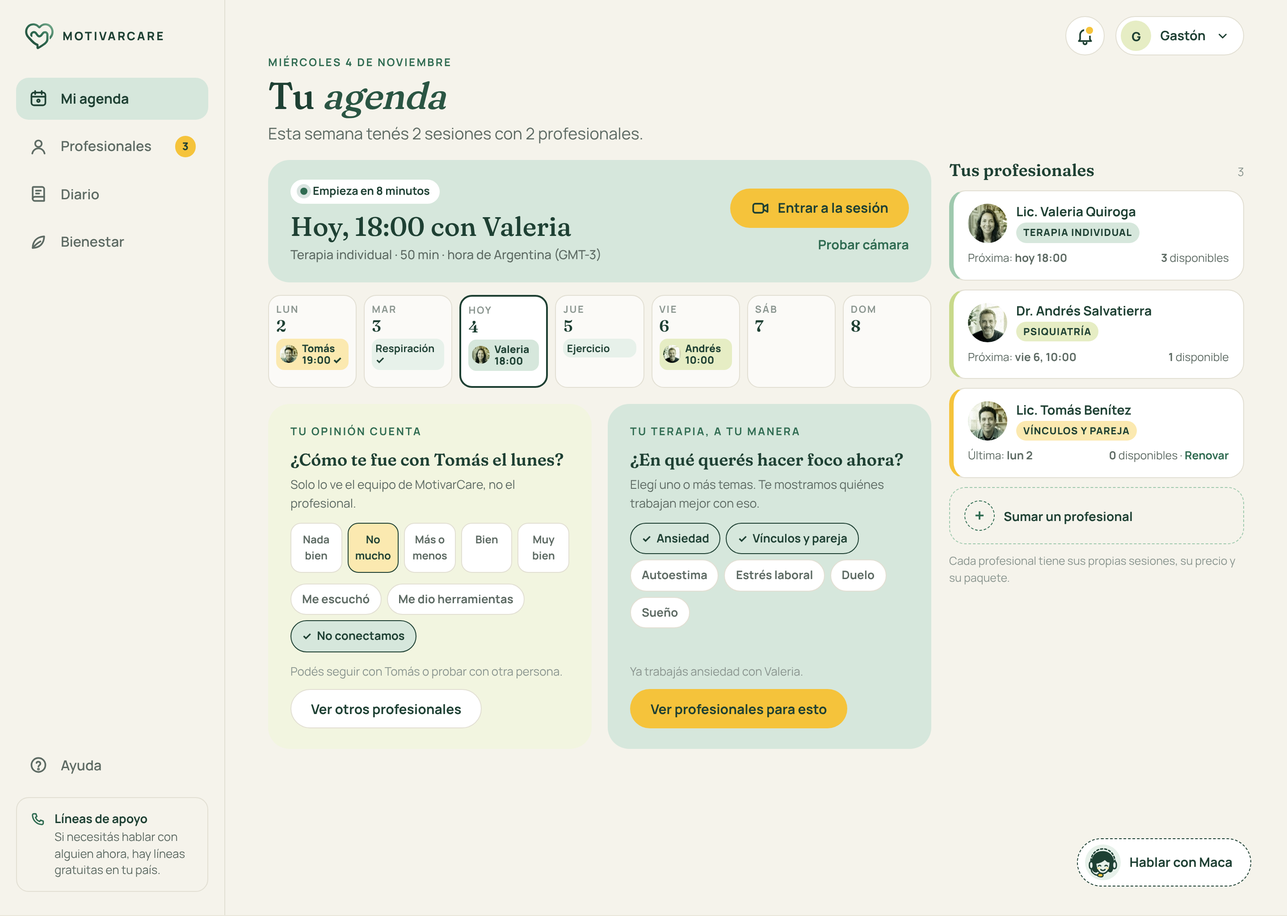
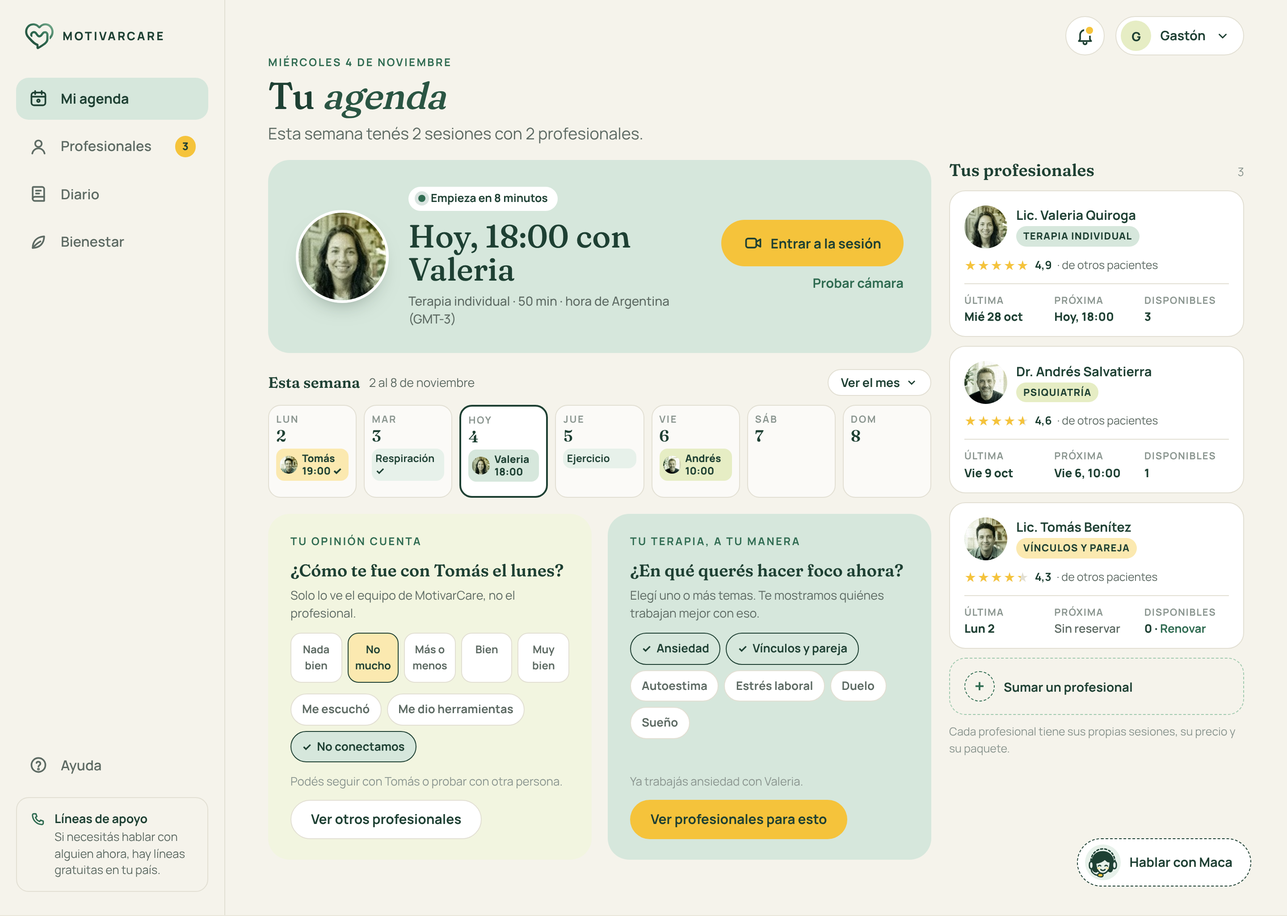
App del usuario: ajustes al Inicio de la familia 3
Sesión de hoy más grande y con foto, semana que se abre en el mes completo
y tarjetas de profesionales sin borde de color, con valoración, última y
próxima sesión y sesiones disponibles.

Claude-Session: https://claude.ai/code/session_01WU1DRv73FL9hgnWuzdh2zM

diff --git a/web/public/app-usuario/equipo.html b/web/public/app-usuario/equipo.html
@@ -321,10 +321,42 @@ ul.lista-simple { padding: 0; }
 /* ===== Familia 3 · Equipo de apoyo y múltiples profesionales ===== */
 .eq-grid { display: grid; grid-template-columns: 1fr 330px; gap: 20px; }
 .eq-cab { display: flex; align-items: flex-end; justify-content: space-between; margin-bottom: 16px; }
-.eq-hoy { display: grid; grid-template-columns: 1fr auto; gap: 16px; align-items: center; padding: 20px 24px; }
-.eq-hoy .cuando { font: 500 30px/1.05 var(--serif); font-variation-settings: 'SOFT' 60; color: var(--bosque); }
+.eq-hoy { display: grid; grid-template-columns: 104px 1fr auto; gap: 22px; align-items: center; padding: 28px 30px; }
+.eq-hoy .foto { width: 104px; height: 104px; border-radius: 50%; object-fit: cover; border: 3px solid var(--superficie); box-shadow: 0 12px 26px -16px rgba(20,41,31,.55); display: block; }
+.eq-hoy .cuando { font: 500 36px/1.05 var(--serif); font-variation-settings: 'SOFT' 60; color: var(--bosque); }
 .eq-hoy .cuando small { display: block; font: 500 14px/1.4 var(--sans); color: var(--tinta-suave); margin-top: 6px; }
-.eq-semana { display: grid; grid-template-columns: repeat(7, 1fr); gap: 8px; margin-top: 14px; }
+.eq-semana { display: grid; grid-template-columns: repeat(7, 1fr); gap: 8px; }
+.eq-cal { margin-top: 18px; }
+.eq-cal-cab { display: flex; align-items: center; gap: 10px; margin-bottom: 10px; }
+.eq-cal-cab .eq-titulo { font-size: 17px; }
+.eq-cal-cab .rango { font-size: 13.5px; color: var(--tinta-suave); }
+.eq-cal-cab .flechas { display: none; gap: 6px; }
+.eq-cal-cab .flechas span { width: 30px; height: 30px; border-radius: 50%; border: 1px solid var(--linea); background: var(--superficie); display: grid; place-items: center; color: var(--bosque); font-weight: 800; }
+.eq-expandir { margin-left: auto; display: inline-flex; align-items: center; gap: 6px; padding: 7px 14px; border-radius: 99px; border: 1.5px solid var(--linea); background: var(--superficie); font: 700 13.5px/1 var(--sans); color: var(--bosque); cursor: pointer; }
+.eq-expandir svg { width: 14px; height: 14px; fill: none; stroke: currentColor; stroke-width: 2.4; transition: transform .2s; }
+.eq-cal .solo-mes { display: none; }
+.eq-cal.abierto .solo-semana { display: none; }
+.eq-cal.abierto .solo-mes { display: initial; }
+.eq-cal.abierto .eq-cal-cab .flechas { display: inline-flex; }
+.eq-cal.abierto .eq-expandir svg { transform: rotate(180deg); }
+.eq-mes { display: none; }
+.eq-cal.abierto .eq-semana { display: none; }
+.eq-cal.abierto .eq-mes { display: block; }
+.eq-mes .dias { display: grid; grid-template-columns: repeat(7, 1fr); gap: 6px; margin-bottom: 6px; font: 700 11px/1 var(--sans); letter-spacing: .12em; text-transform: uppercase; color: var(--tinta-tenue); padding-left: 8px; }
+.eq-mes .grilla { display: grid; grid-template-columns: repeat(7, 1fr); gap: 6px; }
+.eq-mes .c { min-height: 74px; border-radius: 12px; background: rgba(255,255,255,.6); border: 1px solid var(--linea); padding: 6px 6px 7px; display: flex; flex-direction: column; gap: 3px; }
+.eq-mes .c .n { font: 600 14px/1 var(--serif); color: var(--bosque); margin: 1px 0 2px 2px; }
+.eq-mes .c.fuera { background: transparent; border-style: dashed; opacity: .55; }
+.eq-mes .c.pasado { background: rgba(255,255,255,.35); }
+.eq-mes .c.hoy { background: var(--superficie); border: 2px solid var(--bosque); }
+.eq-mes .c.semana { box-shadow: inset 0 0 0 1px var(--salvia-fuerte); }
+.eq-mes .e { display: flex; align-items: center; gap: 4px; padding: 2px 5px 2px 2px; border-radius: 7px; font-size: 11px; font-weight: 800; color: var(--bosque); line-height: 1.2; white-space: nowrap; overflow: hidden; }
+.eq-mes .e img { width: 16px; height: 16px; border-radius: 50%; object-fit: cover; flex: none; }
+.eq-mes .e.v { background: var(--salvia); } .eq-mes .e.a { background: var(--lima); } .eq-mes .e.t { background: var(--amarillo-suave); }
+.eq-mes .e.otro { background: var(--menta); font-weight: 700; padding-left: 6px; }
+.eq-mes .e.libre { background: transparent; border: 1.5px dashed var(--salvia-fuerte); font-weight: 700; color: var(--verde-medio); padding-left: 6px; }
+.eq-mes .ley { display: flex; gap: 16px; flex-wrap: wrap; margin-top: 10px; font-size: 12.5px; color: var(--tinta-suave); }
+.eq-mes .ley b { color: var(--bosque); }
 .eq-dia { border-radius: 14px; background: rgba(255,255,255,.6); border: 1px solid var(--linea); padding: 9px 8px 10px; min-height: 104px; display: flex; flex-direction: column; gap: 5px; }
 .eq-dia .d { font: 700 11px/1 var(--sans); letter-spacing: .12em; text-transform: uppercase; color: var(--tinta-tenue); }
 .eq-dia .n { font: 600 18px/1 var(--serif); color: var(--bosque); }
@@ -352,7 +384,18 @@ ul.lista-simple { padding: 0; }
 .eq-pro .serv { display: inline-block; font-size: 11px; font-weight: 800; letter-spacing: .06em; text-transform: uppercase; padding: 3px 8px; border-radius: 99px; color: var(--bosque); }
 .eq-pro .datos { display: flex; justify-content: space-between; font-size: 12.5px; color: var(--tinta-suave); }
 .eq-pro .datos b { display: inline; font-size: 12.5px; }
-.eq-pro.marca-v { border-left: 5px solid var(--salvia-fuerte); } .eq-pro.marca-a { border-left: 5px solid var(--lima-fuerte); } .eq-pro.marca-t { border-left: 5px solid var(--amarillo); }
+.eq-pro { padding: 16px 16px 14px; gap: 10px; }
+.eq-pro .avatar { width: 48px; height: 48px; }
+.eq-pro .valor { display: flex; align-items: center; gap: 6px; font-size: 12.5px; color: var(--tinta-suave); }
+.eq-pro .valor b { display: inline; font-size: 12.5px; color: var(--bosque); }
+.estrellas { position: relative; display: inline-block; font-size: 13px; line-height: 1; letter-spacing: 1px; }
+.estrellas i { font-style: normal; display: block; }
+.estrellas i:first-child { color: var(--linea); }
+.estrellas i:last-child { position: absolute; inset: 0 auto 0 0; width: var(--v); overflow: hidden; color: var(--amarillo); }
+.eq-pro .tres { display: grid; grid-template-columns: 1fr 1fr 1fr; gap: 6px; padding-top: 10px; border-top: 1px solid var(--linea); }
+.eq-pro .tres span { display: flex; flex-direction: column; gap: 2px; font-size: 11px; font-weight: 700; letter-spacing: .08em; text-transform: uppercase; color: var(--tinta-tenue); }
+.eq-pro .tres b { display: block; font-size: 13px; letter-spacing: 0; text-transform: none; color: var(--bosque); line-height: 1.25; }
+.eq-pro .tres b.nada { color: var(--tinta-suave); font-weight: 600; }
 .eq-sumar { border: 1.5px dashed var(--salvia-fuerte); border-radius: 18px; padding: 14px 16px; display: flex; align-items: center; gap: 10px; font-weight: 700; font-size: 14px; color: var(--bosque); }
 .eq-sumar i { width: 34px; height: 34px; border-radius: 50%; border: 1.5px dashed var(--verde-medio); display: grid; place-items: center; font-style: normal; font-size: 20px; color: var(--verde-medio); }
 .ini { display: grid; place-items: center; background: var(--lima); color: var(--bosque); font-weight: 800; font-size: 13px; border-radius: 50%; flex: none; }
@@ -376,7 +419,7 @@ ul.lista-simple { padding: 0; }
 .eq-avs { display: flex; gap: 10px; align-items: center; }
 .eq-avs .av { position: relative; }
 .eq-avs .av img, .eq-avs .av .ini { width: 44px; height: 44px; border-radius: 50%; object-fit: cover; border: 2.5px solid var(--superficie); box-shadow: 0 0 0 2px var(--salvia-fuerte); }
-.eq-avs .av.a img { box-shadow: 0 0 0 2px var(--lima-fuerte); } .eq-avs .av.t img { box-shadow: 0 0 0 2px var(--amarillo); }
+
 .eq-avs .mas { width: 44px; height: 44px; border-radius: 50%; border: 1.5px dashed var(--verde-medio); display: grid; place-items: center; color: var(--verde-medio); font-size: 20px; }
 .eq-lista-tel { display: flex; flex-direction: column; gap: 8px; }
 .eq-item-tel { display: flex; align-items: center; gap: 10px; padding: 10px 12px; border-radius: 14px; background: var(--superficie); border: 1px solid var(--linea); font-size: 13px; color: var(--tinta-suave); }
@@ -434,10 +477,11 @@ ul.lista-simple { padding: 0; }
       <div class="eq-grid">
         <div>
           <article class="tarjeta salvia eq-hoy">
+            <img class="foto" src="../landing/img/profesionales/valeria-quiroga.jpg" alt="Lic. Valeria Quiroga" width="104" height="104">
             <div><span class="chip" style="background:var(--superficie)"><span class="late"></span>Empieza en 8 minutos</span><div class="cuando" style="margin-top:10px">Hoy, 18:00 con Valeria<small>Terapia individual · 50 min · hora de Argentina (GMT-3)</small></div></div>
-            <div style="display:flex;flex-direction:column;gap:8px;align-items:flex-end"><a class="boton primario"><svg class="ico"><use href="#i-video"/></svg>Entrar a la sesión</a><a class="enlace">Probar cámara</a></div>
+            <div style="display:flex;flex-direction:column;gap:8px;align-items:flex-end"><a class="boton primario" style="height:52px;padding:0 24px"><svg class="ico"><use href="#i-video"/></svg>Entrar a la sesión</a><a class="enlace">Probar cámara</a></div>
           </article>
-          <div class="eq-semana"><div class="eq-dia"><span class="d">Lun</span><span class="n">2</span><span class="eq-ev t"><img src="../landing/img/profesionales/tomas-benitez.jpg" alt="">Tomás 19:00 ✓</span></div><div class="eq-dia"><span class="d">Mar</span><span class="n">3</span><span class="eq-ev otro">Respiración ✓</span></div><div class="eq-dia hoy"><span class="d">Hoy</span><span class="n">4</span><span class="eq-ev v"><img src="../landing/img/profesionales/valeria-quiroga.jpg" alt="">Valeria 18:00</span></div><div class="eq-dia"><span class="d">Jue</span><span class="n">5</span><span class="eq-ev otro">Ejercicio</span></div><div class="eq-dia"><span class="d">Vie</span><span class="n">6</span><span class="eq-ev a"><img src="../landing/img/profesionales/andres-salvatierra.jpg" alt="">Andrés 10:00</span></div><div class="eq-dia"><span class="d">Sáb</span><span class="n">7</span></div><div class="eq-dia"><span class="d">Dom</span><span class="n">8</span></div></div>
+          <div class="eq-cal"><div class="eq-cal-cab"><h2 class="eq-titulo"><span class="solo-semana">Esta semana</span><span class="solo-mes">Noviembre 2026</span></h2><span class="rango solo-semana">2 al 8 de noviembre</span><span class="flechas"><span>‹</span><span>›</span></span><button class="eq-expandir" type="button" onclick="this.closest('.eq-cal').classList.toggle('abierto')"><span class="solo-semana">Ver el mes</span><span class="solo-mes">Ver solo la semana</span><svg viewBox="0 0 24 24"><path d="M6 9l6 6 6-6"/></svg></button></div><div class="eq-semana"><div class="eq-dia"><span class="d">Lun</span><span class="n">2</span><span class="eq-ev t"><img src="../landing/img/profesionales/tomas-benitez.jpg" alt="">Tomás 19:00 ✓</span></div><div class="eq-dia"><span class="d">Mar</span><span class="n">3</span><span class="eq-ev otro">Respiración ✓</span></div><div class="eq-dia hoy"><span class="d">Hoy</span><span class="n">4</span><span class="eq-ev v"><img src="../landing/img/profesionales/valeria-quiroga.jpg" alt="">Valeria 18:00</span></div><div class="eq-dia"><span class="d">Jue</span><span class="n">5</span><span class="eq-ev otro">Ejercicio</span></div><div class="eq-dia"><span class="d">Vie</span><span class="n">6</span><span class="eq-ev a"><img src="../landing/img/profesionales/andres-salvatierra.jpg" alt="">Andrés 10:00</span></div><div class="eq-dia"><span class="d">Sáb</span><span class="n">7</span></div><div class="eq-dia"><span class="d">Dom</span><span class="n">8</span></div></div><div class="eq-mes"><div class="dias"><span>Lun</span><span>Mar</span><span>Mié</span><span>Jue</span><span>Vie</span><span>Sáb</span><span>Dom</span></div><div class="grilla"><div class="c fuera"><span class="n">26</span><span class="e t"><img src="../landing/img/profesionales/tomas-benitez.jpg" alt="">19:00 ✓</span></div><div class="c fuera"><span class="n">27</span></div><div class="c fuera"><span class="n">28</span><span class="e v"><img src="../landing/img/profesionales/valeria-quiroga.jpg" alt="">18:00 ✓</span></div><div class="c fuera"><span class="n">29</span></div><div class="c fuera"><span class="n">30</span></div><div class="c fuera"><span class="n">31</span></div><div class="c pasado"><span class="n">1</span><span class="e otro">Respiración ✓</span></div><div class="c pasado semana"><span class="n">2</span><span class="e t"><img src="../landing/img/profesionales/tomas-benitez.jpg" alt="">19:00 ✓</span></div><div class="c pasado semana"><span class="n">3</span><span class="e otro">Respiración ✓</span></div><div class="c hoy"><span class="n">4</span><span class="e v"><img src="../landing/img/profesionales/valeria-quiroga.jpg" alt="">18:00</span></div><div class="c semana"><span class="n">5</span><span class="e otro">Ejercicio</span></div><div class="c semana"><span class="n">6</span><span class="e a"><img src="../landing/img/profesionales/andres-salvatierra.jpg" alt="">10:00</span></div><div class="c semana"><span class="n">7</span></div><div class="c semana"><span class="n">8</span></div><div class="c"><span class="n">9</span></div><div class="c"><span class="n">10</span><span class="e otro">Ejercicio</span></div><div class="c"><span class="n">11</span><span class="e v"><img src="../landing/img/profesionales/valeria-quiroga.jpg" alt="">18:00</span></div><div class="c"><span class="n">12</span></div><div class="c"><span class="n">13</span><span class="e otro">Respiración</span></div><div class="c"><span class="n">14</span></div><div class="c"><span class="n">15</span></div><div class="c"><span class="n">16</span></div><div class="c"><span class="n">17</span></div><div class="c"><span class="n">18</span><span class="e v"><img src="../landing/img/profesionales/valeria-quiroga.jpg" alt="">18:00</span></div><div class="c"><span class="n">19</span><span class="e otro">Ejercicio</span></div><div class="c"><span class="n">20</span></div><div class="c"><span class="n">21</span></div><div class="c"><span class="n">22</span></div><div class="c"><span class="n">23</span></div><div class="c"><span class="n">24</span></div><div class="c"><span class="n">25</span><span class="e libre">+ Reservar</span></div><div class="c"><span class="n">26</span></div><div class="c"><span class="n">27</span><span class="e otro">Respiración</span></div><div class="c"><span class="n">28</span></div><div class="c"><span class="n">29</span></div><div class="c"><span class="n">30</span></div><div class="c fuera"><span class="n">1</span></div><div class="c fuera"><span class="n">2</span></div><div class="c fuera"><span class="n">3</span></div><div class="c fuera"><span class="n">4</span><span class="e a"><img src="../landing/img/profesionales/andres-salvatierra.jpg" alt="">10:00</span></div><div class="c fuera"><span class="n">5</span></div><div class="c fuera"><span class="n">6</span></div></div><div class="ley"><span><b>3</b> sesiones con Valeria</span><span><b>1</b> con Andrés</span><span><b>7</b> ejercicios y prácticas</span><span>Tomás: sin sesiones reservadas · <a class="enlace" style="font-size:12.5px">Reservar</a></span></div></div></div>
           <div class="eq-prota"><article class="tarjeta eq-card" style="background:var(--lima-suave);border-color:transparent">
   <span class="t-fecha">Tu opinión cuenta</span>
   <h3 class="eq-titulo">¿Cómo te fue con Tomás el lunes?</h3>
@@ -455,9 +499,62 @@ ul.lista-simple { padding: 0; }
         </div>
         <div class="eq-lado">
   <div style="display:flex;justify-content:space-between;align-items:baseline"><h2 class="eq-titulo">Tus profesionales</h2><span class="tenue">3</span></div>
-  <article class="tarjeta eq-pro marca-v"><div class="fila"><img class="avatar" src="../landing/img/profesionales/valeria-quiroga.jpg" width="44" height="44" alt=""><div><b>Lic. Valeria Quiroga</b><span class="serv" style="background:var(--salvia)">Terapia individual</span></div></div><div class="datos"><span>Próxima: <b>hoy 18:00</b></span><span><b>3</b> disponibles</span></div></article>
-  <article class="tarjeta eq-pro marca-a"><div class="fila"><img class="avatar" src="../landing/img/profesionales/andres-salvatierra.jpg" width="44" height="44" alt=""><div><b>Dr. Andrés Salvatierra</b><span class="serv" style="background:var(--lima)">Psiquiatría</span></div></div><div class="datos"><span>Próxima: <b>vie 6, 10:00</b></span><span><b>1</b> disponible</span></div></article>
-  <article class="tarjeta eq-pro marca-t"><div class="fila"><img class="avatar" src="../landing/img/profesionales/tomas-benitez.jpg" width="44" height="44" alt=""><div><b>Lic. Tomás Benítez</b><span class="serv" style="background:var(--amarillo-suave)">Vínculos y pareja</span></div></div><div class="datos"><span>Última: <b>lun 2</b></span><span><b>0</b> disponibles · <a class="enlace" style="font-size:12.5px">Renovar</a></span></div></article>
+  <article class="tarjeta eq-pro"><div class="fila"><img class="avatar" src="../landing/img/profesionales/valeria-quiroga.jpg" width="48" height="48" alt=""><div><b>Lic. Valeria Quiroga</b><span class="serv" style="background:var(--salvia)">Terapia individual</span></div></div><div class="valor"><span class="estrellas" style="--v: 98%"><i>★★★★★</i><i>★★★★★</i></span><b>4,9</b><span>· de otros pacientes</span></div><div class="tres"><span>Última<b>Mié 28 oct</b></span><span>Próxima<b>Hoy, 18:00</b></span><span>Disponibles<b>3</b></span></div></article>
+  <article class="tarjeta eq-pro"><div class="fila"><img class="avatar" src="../landing/img/profesionales/andres-salvatierra.jpg" width="48" height="48" alt=""><div><b>Dr. Andrés Salvatierra</b><span class="serv" style="background:var(--lima)">Psiquiatría</span></div></div><div class="valor"><span class="estrellas" style="--v: 92%"><i>★★★★★</i><i>★★★★★</i></span><b>4,6</b><span>· de otros pacientes</span></div><div class="tres"><span>Última<b>Vie 9 oct</b></span><span>Próxima<b>Vie 6, 10:00</b></span><span>Disponibles<b>1</b></span></div></article>
+  <article class="tarjeta eq-pro"><div class="fila"><img class="avatar" src="../landing/img/profesionales/tomas-benitez.jpg" width="48" height="48" alt=""><div><b>Lic. Tomás Benítez</b><span class="serv" style="background:var(--amarillo-suave)">Vínculos y pareja</span></div></div><div class="valor"><span class="estrellas" style="--v: 86%"><i>★★★★★</i><i>★★★★★</i></span><b>4,3</b><span>· de otros pacientes</span></div><div class="tres"><span>Última<b>Lun 2</b></span><span>Próxima<b class="nada">Sin reservar</b></span><span>Disponibles<b>0 · <a class="enlace" style="font-size:13px">Renovar</a></b></span></div></article>
+  <div class="eq-sumar"><i>+</i>Sumar un profesional</div>
+  <span class="tenue" style="font-size:12.5px">Cada profesional tiene sus propias sesiones, su precio y su paquete.</span>
+</div>
+      </div>
+    </div>
+  </main>
+  <span class="maca"><img src="../landing/img/maca.svg" alt="">Hablar con Maca</span>
+  
+</div></section>
+<section class="lamina"><h2>Familia 3 · Inicio en escritorio · la semana abierta en el mes completo</h2><div class="marco esc" id="equipo-mes-escritorio">
+  <aside class="lateral">
+    <div class="marca"><img src="../landing/img/logo.svg" alt="">MOTIVARCARE</div>
+    <a class="nav-item activo"><svg class="ico"><use href="#i-sesiones"/></svg>Mi agenda</a>
+    <a class="nav-item"><svg class="ico"><use href="#i-profesional"/></svg>Profesionales<span class="contador">3</span></a>
+    <a class="nav-item"><svg class="ico"><use href="#i-diario"/></svg>Diario</a>
+    <a class="nav-item"><svg class="ico"><use href="#i-bienestar"/></svg>Bienestar</a>
+    <div class="pie">
+      <a class="nav-item"><svg class="ico"><use href="#i-ayuda"/></svg>Ayuda</a>
+      <div class="apoyo"><svg class="ico chico"><use href="#i-tel"/></svg><div><b>Líneas de apoyo</b>Si necesitás hablar con alguien ahora, hay líneas gratuitas en tu país.</div></div>
+    </div>
+  </aside>
+  <main class="principal">
+    <div class="barra"><span class="espacio"></span><span class="boton-icono"><svg class="ico"><use href="#i-campana"/></svg><span class="punto"></span></span><span class="cuenta"><span class="inicial">G</span>Gastón<svg class="ico chico"><use href="#i-abajo"/></svg></span></div>
+    <div class="contenido">
+      <div class="eq-cab"><div class="saludo" style="margin:0"><span class="t-fecha">Miércoles 4 de noviembre</span><h1 class="t1">Tu <em>agenda</em></h1><p class="bajada">Esta semana tenés 2 sesiones con 2 profesionales.</p></div></div>
+      <div class="eq-grid">
+        <div>
+          <article class="tarjeta salvia eq-hoy">
+            <img class="foto" src="../landing/img/profesionales/valeria-quiroga.jpg" alt="Lic. Valeria Quiroga" width="104" height="104">
+            <div><span class="chip" style="background:var(--superficie)"><span class="late"></span>Empieza en 8 minutos</span><div class="cuando" style="margin-top:10px">Hoy, 18:00 con Valeria<small>Terapia individual · 50 min · hora de Argentina (GMT-3)</small></div></div>
+            <div style="display:flex;flex-direction:column;gap:8px;align-items:flex-end"><a class="boton primario" style="height:52px;padding:0 24px"><svg class="ico"><use href="#i-video"/></svg>Entrar a la sesión</a><a class="enlace">Probar cámara</a></div>
+          </article>
+          <div class="eq-cal abierto"><div class="eq-cal-cab"><h2 class="eq-titulo"><span class="solo-semana">Esta semana</span><span class="solo-mes">Noviembre 2026</span></h2><span class="rango solo-semana">2 al 8 de noviembre</span><span class="flechas"><span>‹</span><span>›</span></span><button class="eq-expandir" type="button" onclick="this.closest('.eq-cal').classList.toggle('abierto')"><span class="solo-semana">Ver el mes</span><span class="solo-mes">Ver solo la semana</span><svg viewBox="0 0 24 24"><path d="M6 9l6 6 6-6"/></svg></button></div><div class="eq-semana"><div class="eq-dia"><span class="d">Lun</span><span class="n">2</span><span class="eq-ev t"><img src="../landing/img/profesionales/tomas-benitez.jpg" alt="">Tomás 19:00 ✓</span></div><div class="eq-dia"><span class="d">Mar</span><span class="n">3</span><span class="eq-ev otro">Respiración ✓</span></div><div class="eq-dia hoy"><span class="d">Hoy</span><span class="n">4</span><span class="eq-ev v"><img src="../landing/img/profesionales/valeria-quiroga.jpg" alt="">Valeria 18:00</span></div><div class="eq-dia"><span class="d">Jue</span><span class="n">5</span><span class="eq-ev otro">Ejercicio</span></div><div class="eq-dia"><span class="d">Vie</span><span class="n">6</span><span class="eq-ev a"><img src="../landing/img/profesionales/andres-salvatierra.jpg" alt="">Andrés 10:00</span></div><div class="eq-dia"><span class="d">Sáb</span><span class="n">7</span></div><div class="eq-dia"><span class="d">Dom</span><span class="n">8</span></div></div><div class="eq-mes"><div class="dias"><span>Lun</span><span>Mar</span><span>Mié</span><span>Jue</span><span>Vie</span><span>Sáb</span><span>Dom</span></div><div class="grilla"><div class="c fuera"><span class="n">26</span><span class="e t"><img src="../landing/img/profesionales/tomas-benitez.jpg" alt="">19:00 ✓</span></div><div class="c fuera"><span class="n">27</span></div><div class="c fuera"><span class="n">28</span><span class="e v"><img src="../landing/img/profesionales/valeria-quiroga.jpg" alt="">18:00 ✓</span></div><div class="c fuera"><span class="n">29</span></div><div class="c fuera"><span class="n">30</span></div><div class="c fuera"><span class="n">31</span></div><div class="c pasado"><span class="n">1</span><span class="e otro">Respiración ✓</span></div><div class="c pasado semana"><span class="n">2</span><span class="e t"><img src="../landing/img/profesionales/tomas-benitez.jpg" alt="">19:00 ✓</span></div><div class="c pasado semana"><span class="n">3</span><span class="e otro">Respiración ✓</span></div><div class="c hoy"><span class="n">4</span><span class="e v"><img src="../landing/img/profesionales/valeria-quiroga.jpg" alt="">18:00</span></div><div class="c semana"><span class="n">5</span><span class="e otro">Ejercicio</span></div><div class="c semana"><span class="n">6</span><span class="e a"><img src="../landing/img/profesionales/andres-salvatierra.jpg" alt="">10:00</span></div><div class="c semana"><span class="n">7</span></div><div class="c semana"><span class="n">8</span></div><div class="c"><span class="n">9</span></div><div class="c"><span class="n">10</span><span class="e otro">Ejercicio</span></div><div class="c"><span class="n">11</span><span class="e v"><img src="../landing/img/profesionales/valeria-quiroga.jpg" alt="">18:00</span></div><div class="c"><span class="n">12</span></div><div class="c"><span class="n">13</span><span class="e otro">Respiración</span></div><div class="c"><span class="n">14</span></div><div class="c"><span class="n">15</span></div><div class="c"><span class="n">16</span></div><div class="c"><span class="n">17</span></div><div class="c"><span class="n">18</span><span class="e v"><img src="../landing/img/profesionales/valeria-quiroga.jpg" alt="">18:00</span></div><div class="c"><span class="n">19</span><span class="e otro">Ejercicio</span></div><div class="c"><span class="n">20</span></div><div class="c"><span class="n">21</span></div><div class="c"><span class="n">22</span></div><div class="c"><span class="n">23</span></div><div class="c"><span class="n">24</span></div><div class="c"><span class="n">25</span><span class="e libre">+ Reservar</span></div><div class="c"><span class="n">26</span></div><div class="c"><span class="n">27</span><span class="e otro">Respiración</span></div><div class="c"><span class="n">28</span></div><div class="c"><span class="n">29</span></div><div class="c"><span class="n">30</span></div><div class="c fuera"><span class="n">1</span></div><div class="c fuera"><span class="n">2</span></div><div class="c fuera"><span class="n">3</span></div><div class="c fuera"><span class="n">4</span><span class="e a"><img src="../landing/img/profesionales/andres-salvatierra.jpg" alt="">10:00</span></div><div class="c fuera"><span class="n">5</span></div><div class="c fuera"><span class="n">6</span></div></div><div class="ley"><span><b>3</b> sesiones con Valeria</span><span><b>1</b> con Andrés</span><span><b>7</b> ejercicios y prácticas</span><span>Tomás: sin sesiones reservadas · <a class="enlace" style="font-size:12.5px">Reservar</a></span></div></div></div>
+          <div class="eq-prota"><article class="tarjeta eq-card" style="background:var(--lima-suave);border-color:transparent">
+  <span class="t-fecha">Tu opinión cuenta</span>
+  <h3 class="eq-titulo">¿Cómo te fue con Tomás el lunes?</h3>
+  <p class="sub">Solo lo ve el equipo de MotivarCare, no el profesional.</p>
+  <div class="eq-escala"><span>Nada bien</span><span class="sel">No mucho</span><span>Más o menos</span><span>Bien</span><span>Muy bien</span></div>
+  <div class="eq-chips"><span class="eq-chip">Me escuchó</span><span class="eq-chip">Me dio herramientas</span><span class="eq-chip on">No conectamos</span></div>
+  <div class="pie-card"><span class="tenue">Podés seguir con Tomás o probar con otra persona.</span><a class="boton contorno">Ver otros profesionales</a></div>
+</article><article class="tarjeta salvia eq-card">
+  <span class="t-fecha">Tu terapia, a tu manera</span>
+  <h3 class="eq-titulo">¿En qué querés hacer foco ahora?</h3>
+  <p class="sub">Elegí uno o más temas. Te mostramos quiénes trabajan mejor con eso.</p>
+  <div class="eq-chips"><span class="eq-chip on">Ansiedad</span><span class="eq-chip on">Vínculos y pareja</span><span class="eq-chip">Autoestima</span><span class="eq-chip">Estrés laboral</span><span class="eq-chip">Duelo</span><span class="eq-chip">Sueño</span></div>
+  <div class="pie-card"><span class="tenue">Ya trabajás ansiedad con Valeria.</span><a class="boton primario">Ver profesionales para esto</a></div>
+</article></div>
+        </div>
+        <div class="eq-lado">
+  <div style="display:flex;justify-content:space-between;align-items:baseline"><h2 class="eq-titulo">Tus profesionales</h2><span class="tenue">3</span></div>
+  <article class="tarjeta eq-pro"><div class="fila"><img class="avatar" src="../landing/img/profesionales/valeria-quiroga.jpg" width="48" height="48" alt=""><div><b>Lic. Valeria Quiroga</b><span class="serv" style="background:var(--salvia)">Terapia individual</span></div></div><div class="valor"><span class="estrellas" style="--v: 98%"><i>★★★★★</i><i>★★★★★</i></span><b>4,9</b><span>· de otros pacientes</span></div><div class="tres"><span>Última<b>Mié 28 oct</b></span><span>Próxima<b>Hoy, 18:00</b></span><span>Disponibles<b>3</b></span></div></article>
+  <article class="tarjeta eq-pro"><div class="fila"><img class="avatar" src="../landing/img/profesionales/andres-salvatierra.jpg" width="48" height="48" alt=""><div><b>Dr. Andrés Salvatierra</b><span class="serv" style="background:var(--lima)">Psiquiatría</span></div></div><div class="valor"><span class="estrellas" style="--v: 92%"><i>★★★★★</i><i>★★★★★</i></span><b>4,6</b><span>· de otros pacientes</span></div><div class="tres"><span>Última<b>Vie 9 oct</b></span><span>Próxima<b>Vie 6, 10:00</b></span><span>Disponibles<b>1</b></span></div></article>
+  <article class="tarjeta eq-pro"><div class="fila"><img class="avatar" src="../landing/img/profesionales/tomas-benitez.jpg" width="48" height="48" alt=""><div><b>Lic. Tomás Benítez</b><span class="serv" style="background:var(--amarillo-suave)">Vínculos y pareja</span></div></div><div class="valor"><span class="estrellas" style="--v: 86%"><i>★★★★★</i><i>★★★★★</i></span><b>4,3</b><span>· de otros pacientes</span></div><div class="tres"><span>Última<b>Lun 2</b></span><span>Próxima<b class="nada">Sin reservar</b></span><span>Disponibles<b>0 · <a class="enlace" style="font-size:13px">Renovar</a></b></span></div></article>
   <div class="eq-sumar"><i>+</i>Sumar un profesional</div>
   <span class="tenue" style="font-size:12.5px">Cada profesional tiene sus propias sesiones, su precio y su paquete.</span>
 </div>
@@ -486,10 +583,11 @@ ul.lista-simple { padding: 0; }
       <div class="eq-grid">
         <div>
           <article class="tarjeta salvia eq-hoy">
+            <img class="foto" src="../landing/img/profesionales/valeria-quiroga.jpg" alt="Lic. Valeria Quiroga" width="104" height="104">
             <div><span class="chip" style="background:var(--superficie)"><span class="late"></span>Empieza en 8 minutos</span><div class="cuando" style="margin-top:10px">Hoy, 18:00 con Valeria<small>Terapia individual · 50 min · hora de Argentina (GMT-3)</small></div></div>
-            <div style="display:flex;flex-direction:column;gap:8px;align-items:flex-end"><a class="boton primario"><svg class="ico"><use href="#i-video"/></svg>Entrar a la sesión</a><a class="enlace">Probar cámara</a></div>
+            <div style="display:flex;flex-direction:column;gap:8px;align-items:flex-end"><a class="boton primario" style="height:52px;padding:0 24px"><svg class="ico"><use href="#i-video"/></svg>Entrar a la sesión</a><a class="enlace">Probar cámara</a></div>
           </article>
-          <div class="eq-semana"><div class="eq-dia"><span class="d">Lun</span><span class="n">2</span><span class="eq-ev t"><img src="../landing/img/profesionales/tomas-benitez.jpg" alt="">Tomás 19:00 ✓</span></div><div class="eq-dia"><span class="d">Mar</span><span class="n">3</span><span class="eq-ev otro">Respiración ✓</span></div><div class="eq-dia hoy"><span class="d">Hoy</span><span class="n">4</span><span class="eq-ev v"><img src="../landing/img/profesionales/valeria-quiroga.jpg" alt="">Valeria 18:00</span></div><div class="eq-dia"><span class="d">Jue</span><span class="n">5</span><span class="eq-ev otro">Ejercicio</span></div><div class="eq-dia"><span class="d">Vie</span><span class="n">6</span><span class="eq-ev a"><img src="../landing/img/profesionales/andres-salvatierra.jpg" alt="">Andrés 10:00</span></div><div class="eq-dia"><span class="d">Sáb</span><span class="n">7</span></div><div class="eq-dia"><span class="d">Dom</span><span class="n">8</span></div></div>
+          <div class="eq-cal"><div class="eq-cal-cab"><h2 class="eq-titulo"><span class="solo-semana">Esta semana</span><span class="solo-mes">Noviembre 2026</span></h2><span class="rango solo-semana">2 al 8 de noviembre</span><span class="flechas"><span>‹</span><span>›</span></span><button class="eq-expandir" type="button" onclick="this.closest('.eq-cal').classList.toggle('abierto')"><span class="solo-semana">Ver el mes</span><span class="solo-mes">Ver solo la semana</span><svg viewBox="0 0 24 24"><path d="M6 9l6 6 6-6"/></svg></button></div><div class="eq-semana"><div class="eq-dia"><span class="d">Lun</span><span class="n">2</span><span class="eq-ev t"><img src="../landing/img/profesionales/tomas-benitez.jpg" alt="">Tomás 19:00 ✓</span></div><div class="eq-dia"><span class="d">Mar</span><span class="n">3</span><span class="eq-ev otro">Respiración ✓</span></div><div class="eq-dia hoy"><span class="d">Hoy</span><span class="n">4</span><span class="eq-ev v"><img src="../landing/img/profesionales/valeria-quiroga.jpg" alt="">Valeria 18:00</span></div><div class="eq-dia"><span class="d">Jue</span><span class="n">5</span><span class="eq-ev otro">Ejercicio</span></div><div class="eq-dia"><span class="d">Vie</span><span class="n">6</span><span class="eq-ev a"><img src="../landing/img/profesionales/andres-salvatierra.jpg" alt="">Andrés 10:00</span></div><div class="eq-dia"><span class="d">Sáb</span><span class="n">7</span></div><div class="eq-dia"><span class="d">Dom</span><span class="n">8</span></div></div><div class="eq-mes"><div class="dias"><span>Lun</span><span>Mar</span><span>Mié</span><span>Jue</span><span>Vie</span><span>Sáb</span><span>Dom</span></div><div class="grilla"><div class="c fuera"><span class="n">26</span><span class="e t"><img src="../landing/img/profesionales/tomas-benitez.jpg" alt="">19:00 ✓</span></div><div class="c fuera"><span class="n">27</span></div><div class="c fuera"><span class="n">28</span><span class="e v"><img src="../landing/img/profesionales/valeria-quiroga.jpg" alt="">18:00 ✓</span></div><div class="c fuera"><span class="n">29</span></div><div class="c fuera"><span class="n">30</span></div><div class="c fuera"><span class="n">31</span></div><div class="c pasado"><span class="n">1</span><span class="e otro">Respiración ✓</span></div><div class="c pasado semana"><span class="n">2</span><span class="e t"><img src="../landing/img/profesionales/tomas-benitez.jpg" alt="">19:00 ✓</span></div><div class="c pasado semana"><span class="n">3</span><span class="e otro">Respiración ✓</span></div><div class="c hoy"><span class="n">4</span><span class="e v"><img src="../landing/img/profesionales/valeria-quiroga.jpg" alt="">18:00</span></div><div class="c semana"><span class="n">5</span><span class="e otro">Ejercicio</span></div><div class="c semana"><span class="n">6</span><span class="e a"><img src="../landing/img/profesionales/andres-salvatierra.jpg" alt="">10:00</span></div><div class="c semana"><span class="n">7</span></div><div class="c semana"><span class="n">8</span></div><div class="c"><span class="n">9</span></div><div class="c"><span class="n">10</span><span class="e otro">Ejercicio</span></div><div class="c"><span class="n">11</span><span class="e v"><img src="../landing/img/profesionales/valeria-quiroga.jpg" alt="">18:00</span></div><div class="c"><span class="n">12</span></div><div class="c"><span class="n">13</span><span class="e otro">Respiración</span></div><div class="c"><span class="n">14</span></div><div class="c"><span class="n">15</span></div><div class="c"><span class="n">16</span></div><div class="c"><span class="n">17</span></div><div class="c"><span class="n">18</span><span class="e v"><img src="../landing/img/profesionales/valeria-quiroga.jpg" alt="">18:00</span></div><div class="c"><span class="n">19</span><span class="e otro">Ejercicio</span></div><div class="c"><span class="n">20</span></div><div class="c"><span class="n">21</span></div><div class="c"><span class="n">22</span></div><div class="c"><span class="n">23</span></div><div class="c"><span class="n">24</span></div><div class="c"><span class="n">25</span><span class="e libre">+ Reservar</span></div><div class="c"><span class="n">26</span></div><div class="c"><span class="n">27</span><span class="e otro">Respiración</span></div><div class="c"><span class="n">28</span></div><div class="c"><span class="n">29</span></div><div class="c"><span class="n">30</span></div><div class="c fuera"><span class="n">1</span></div><div class="c fuera"><span class="n">2</span></div><div class="c fuera"><span class="n">3</span></div><div class="c fuera"><span class="n">4</span><span class="e a"><img src="../landing/img/profesionales/andres-salvatierra.jpg" alt="">10:00</span></div><div class="c fuera"><span class="n">5</span></div><div class="c fuera"><span class="n">6</span></div></div><div class="ley"><span><b>3</b> sesiones con Valeria</span><span><b>1</b> con Andrés</span><span><b>7</b> ejercicios y prácticas</span><span>Tomás: sin sesiones reservadas · <a class="enlace" style="font-size:12.5px">Reservar</a></span></div></div></div>
           <div class="eq-prota"><article class="tarjeta eq-card" style="background:var(--lima-suave);border-color:transparent">
   <span class="t-fecha">Tu opinión cuenta</span>
   <h3 class="eq-titulo">¿Cómo te fue con Tomás el lunes?</h3>
@@ -507,9 +605,9 @@ ul.lista-simple { padding: 0; }
         </div>
         <div class="eq-lado">
   <div style="display:flex;justify-content:space-between;align-items:baseline"><h2 class="eq-titulo">Tus profesionales</h2><span class="tenue">3</span></div>
-  <article class="tarjeta eq-pro marca-v"><div class="fila"><img class="avatar" src="../landing/img/profesionales/valeria-quiroga.jpg" width="44" height="44" alt=""><div><b>Lic. Valeria Quiroga</b><span class="serv" style="background:var(--salvia)">Terapia individual</span></div></div><div class="datos"><span>Próxima: <b>hoy 18:00</b></span><span><b>3</b> disponibles</span></div></article>
-  <article class="tarjeta eq-pro marca-a"><div class="fila"><img class="avatar" src="../landing/img/profesionales/andres-salvatierra.jpg" width="44" height="44" alt=""><div><b>Dr. Andrés Salvatierra</b><span class="serv" style="background:var(--lima)">Psiquiatría</span></div></div><div class="datos"><span>Próxima: <b>vie 6, 10:00</b></span><span><b>1</b> disponible</span></div></article>
-  <article class="tarjeta eq-pro marca-t"><div class="fila"><img class="avatar" src="../landing/img/profesionales/tomas-benitez.jpg" width="44" height="44" alt=""><div><b>Lic. Tomás Benítez</b><span class="serv" style="background:var(--amarillo-suave)">Vínculos y pareja</span></div></div><div class="datos"><span>Última: <b>lun 2</b></span><span><b>0</b> disponibles · <a class="enlace" style="font-size:12.5px">Renovar</a></span></div></article>
+  <article class="tarjeta eq-pro"><div class="fila"><img class="avatar" src="../landing/img/profesionales/valeria-quiroga.jpg" width="48" height="48" alt=""><div><b>Lic. Valeria Quiroga</b><span class="serv" style="background:var(--salvia)">Terapia individual</span></div></div><div class="valor"><span class="estrellas" style="--v: 98%"><i>★★★★★</i><i>★★★★★</i></span><b>4,9</b><span>· de otros pacientes</span></div><div class="tres"><span>Última<b>Mié 28 oct</b></span><span>Próxima<b>Hoy, 18:00</b></span><span>Disponibles<b>3</b></span></div></article>
+  <article class="tarjeta eq-pro"><div class="fila"><img class="avatar" src="../landing/img/profesionales/andres-salvatierra.jpg" width="48" height="48" alt=""><div><b>Dr. Andrés Salvatierra</b><span class="serv" style="background:var(--lima)">Psiquiatría</span></div></div><div class="valor"><span class="estrellas" style="--v: 92%"><i>★★★★★</i><i>★★★★★</i></span><b>4,6</b><span>· de otros pacientes</span></div><div class="tres"><span>Última<b>Vie 9 oct</b></span><span>Próxima<b>Vie 6, 10:00</b></span><span>Disponibles<b>1</b></span></div></article>
+  <article class="tarjeta eq-pro"><div class="fila"><img class="avatar" src="../landing/img/profesionales/tomas-benitez.jpg" width="48" height="48" alt=""><div><b>Lic. Tomás Benítez</b><span class="serv" style="background:var(--amarillo-suave)">Vínculos y pareja</span></div></div><div class="valor"><span class="estrellas" style="--v: 86%"><i>★★★★★</i><i>★★★★★</i></span><b>4,3</b><span>· de otros pacientes</span></div><div class="tres"><span>Última<b>Lun 2</b></span><span>Próxima<b class="nada">Sin reservar</b></span><span>Disponibles<b>0 · <a class="enlace" style="font-size:13px">Renovar</a></b></span></div></article>
   <div class="eq-sumar"><i>+</i>Sumar un profesional</div>
   <span class="tenue" style="font-size:12.5px">Cada profesional tiene sus propias sesiones, su precio y su paquete.</span>
 </div>
@@ -550,7 +648,7 @@ ul.lista-simple { padding: 0; }
     <div class="eq-avs"><span class="av"><img src="../landing/img/profesionales/valeria-quiroga.jpg" alt=""></span><span class="av a"><img src="../landing/img/profesionales/andres-salvatierra.jpg" alt=""></span><span class="av t"><img src="../landing/img/profesionales/tomas-benitez.jpg" alt=""></span><span class="mas">+</span><span class="tenue" style="margin-left:4px">Tus 3 profesionales</span></div>
     <div class="tarjeta salvia" style="padding:16px;display:flex;flex-direction:column;gap:10px">
       <span class="chip" style="background:var(--superficie);align-self:flex-start"><span class="late"></span>Empieza en 8 minutos</span>
-      <span style="font:500 24px/1.1 var(--serif);color:var(--bosque)">Hoy, 18:00 con Valeria</span>
+      <div style="display:flex;gap:12px;align-items:center"><img src="../landing/img/profesionales/valeria-quiroga.jpg" alt="" style="width:58px;height:58px;border-radius:50%;object-fit:cover;border:2.5px solid var(--superficie);flex:none"><span style="font:500 24px/1.1 var(--serif);color:var(--bosque)">Hoy, 18:00 con Valeria<small style="display:block;font:500 12.5px/1.4 var(--sans);color:var(--tinta-suave);margin-top:4px">Terapia individual · 50 min</small></span></div>
       <a class="boton primario" style="width:100%"><svg class="ico"><use href="#i-video"/></svg>Entrar a la sesión</a>
     </div>
     <div class="eq-lista-tel">
@@ -581,7 +679,7 @@ ul.lista-simple { padding: 0; }
     <div class="eq-avs"><span class="av"><img src="../landing/img/profesionales/valeria-quiroga.jpg" alt=""></span><span class="av a"><img src="../landing/img/profesionales/andres-salvatierra.jpg" alt=""></span><span class="av t"><img src="../landing/img/profesionales/tomas-benitez.jpg" alt=""></span><span class="mas">+</span><span class="tenue" style="margin-left:4px">Tus 3 profesionales</span></div>
     <div class="tarjeta salvia" style="padding:16px;display:flex;flex-direction:column;gap:10px">
       <span class="chip" style="background:var(--superficie);align-self:flex-start"><span class="late"></span>Empieza en 8 minutos</span>
-      <span style="font:500 24px/1.1 var(--serif);color:var(--bosque)">Hoy, 18:00 con Valeria</span>
+      <div style="display:flex;gap:12px;align-items:center"><img src="../landing/img/profesionales/valeria-quiroga.jpg" alt="" style="width:58px;height:58px;border-radius:50%;object-fit:cover;border:2.5px solid var(--superficie);flex:none"><span style="font:500 24px/1.1 var(--serif);color:var(--bosque)">Hoy, 18:00 con Valeria<small style="display:block;font:500 12.5px/1.4 var(--sans);color:var(--tinta-suave);margin-top:4px">Terapia individual · 50 min</small></span></div>
       <a class="boton primario" style="width:100%"><svg class="ico"><use href="#i-video"/></svg>Entrar a la sesión</a>
     </div>
     <div class="eq-lista-tel">

diff --git a/web/public/app-usuario/propuesta/equipo/index.html b/web/public/app-usuario/propuesta/equipo/index.html
@@ -30,7 +30,7 @@
       <span class="etiqueta">Familia 3 · Más control para la persona</span>
       <h1>Equipo de apoyo y múltiples profesionales</h1>
       <p class="bajada">La persona tiene más control sobre su terapia: elige a sus profesionales, puede tener más de uno al mismo tiempo (un equipo que trabaja junto o varios en paralelo) y decide en qué quiere hacer foco. El Inicio es su agenda, con todos sus profesionales al costado.</p>
-      <div class="datos"><span class="chip chip--curso">En curso</span><span class="chip chip--dato">2 pantallas hechas · 4 por hacer</span></div>
+      <div class="datos"><span class="chip chip--curso">En curso</span><span class="chip chip--dato">3 pantallas hechas · 4 por hacer</span></div>
     </div>
   </div>
 
@@ -61,8 +61,18 @@
         <div class="texto">
           <span class="chip">Mockup hecho</span>
           <h3>Inicio · tu agenda con varios profesionales</h3>
-          <p>La sesión de hoy y la semana con las sesiones de Valeria, Andrés y Tomás, cada una con su color. Debajo, la valoración de la última sesión con Tomás y la elección del foco. Al costado, los tres profesionales y &quot;Sumar un profesional&quot;.</p>
+          <p>Arriba, la sesión de hoy con la foto de Valeria. Debajo, la semana con las sesiones de Valeria, Andrés y Tomás y los ejercicios, que se abre en el mes completo. Después, la valoración de la última sesión con Tomás y la elección del foco. Al costado, los tres profesionales, cada uno con su valoración, la última sesión, la próxima y las sesiones disponibles, y &quot;Sumar un profesional&quot;.</p>
           <a class="boton" href="/app-usuario/equipo.html#equipo-escritorio">Ver en tamaño real →</a>
+        </div>
+      </article>
+      <article class="hecha sin-tel">
+        <figure><img src="/app-usuario/propuesta/equipo/img/d5-equipo-mes-escritorio.jpg" alt="Inicio · la semana abierta en el mes, en escritorio" loading="lazy"><figcaption>Escritorio · 1440 × 1024</figcaption></figure>
+        
+        <div class="texto">
+          <span class="chip">Mockup hecho</span>
+          <h3>Inicio · la semana abierta en el mes</h3>
+          <p>Con &quot;Ver el mes&quot;, la semana se abre en la misma página en el mes completo, con las sesiones de cada profesional, los ejercicios y los días libres para reservar. La semana actual queda marcada y debajo hay un resumen del mes. &quot;Ver solo la semana&quot; la vuelve a cerrar.</p>
+          <a class="boton" href="/app-usuario/equipo.html#equipo-mes-escritorio">Ver en tamaño real →</a>
         </div>
       </article>
       <article class="hecha">

diff --git a/web/public/app-usuario/propuesta/estilos.css b/web/public/app-usuario/propuesta/estilos.css
@@ -86,6 +86,7 @@ ul.pendientes li::before { background: transparent; border: 1.5px dashed var(--n
 footer { font-size: 13px; color: var(--tinta-tenue); padding: 0 0 40px; }
 .hechas { display: grid; gap: 22px; }
 .hecha { display: grid; grid-template-columns: minmax(0, 2.1fr) minmax(0, 0.75fr) minmax(0, 1.15fr); gap: 18px; align-items: start; padding: 22px; border-radius: 24px; background: var(--superficie); border: 1px solid var(--linea); }
+.hecha.sin-tel { grid-template-columns: minmax(0, 2.85fr) minmax(0, 1.15fr); }
 .hecha figure { margin: 0; }
 .hecha img { display: block; width: 100%; height: auto; border-radius: 12px; border: 1px solid var(--linea); background: var(--crema); }
 .hecha figcaption { font-size: 12px; font-weight: 700; letter-spacing: .1em; text-transform: uppercase; color: var(--tinta-tenue); margin-top: 8px; }
